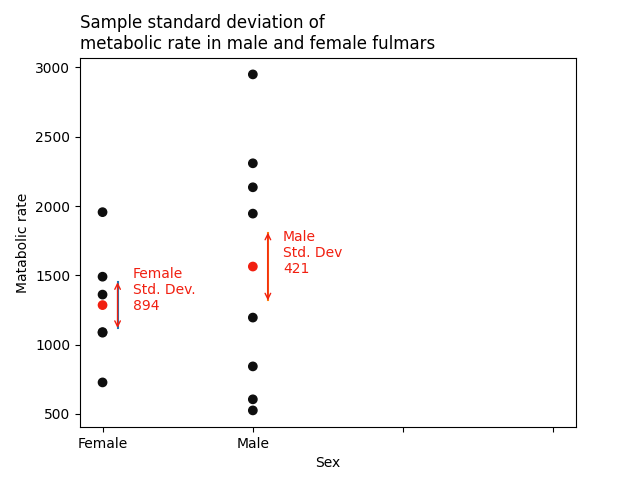
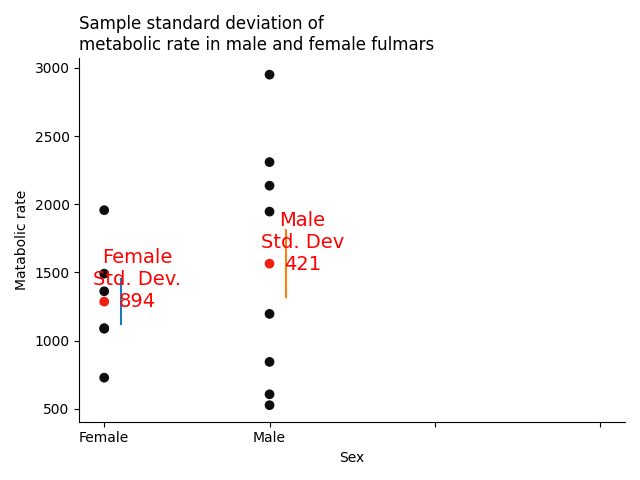
getPath

diff --git a/graphic/plot.py b/graphic/plot.py
@@ -5,6 +5,7 @@ from matplotlib import colors
 import matplotlib.patches as patches
 from matplotlib.patches import Polygon
 from do_statistics.doStats import DoStats
+from utilities import getPath
 class Plot(DoStats):
     red='#F11F10'
     white='#fff'
@@ -264,7 +265,7 @@ class Plot(DoStats):
         self.x_format_fn and ax.xaxis.set_major_formatter(FuncFormatter(self.x_format_fn))
         locator(MaxNLocator(integer=True))
     def scatterGrouped(self,l,title='',xTxt='',yTxt=''):
-        fig, ax = plt.subplots()
+        fig, ax = self.getFigAx()
         self.setTxt(ax,title,xTxt,yTxt)
         self.addScatter(ax,l)
         labels = list(map(lambda item: item[0], l))
@@ -273,9 +274,11 @@ class Plot(DoStats):
                 return labels[int(tick_val)-1]
             else:
                 return ''
-        self.setLables(ax, labels,format_fn=format_fn)
+
+        self.x_format_fn=format_fn
+        self.setLables(ax, labels)
         this_function_name = inspect.currentframe().f_code.co_name
-        self.save(plt,this_function_name)
+        self.saveAndShow(this_function_name)
     def saveAndShow(self, this_function_name=None, enableShow=False):
         if this_function_name is None:
             if hasattr(self,'this_function_name'):
@@ -286,7 +289,9 @@ class Plot(DoStats):
         self.ax.spines['right'].set_visible(False)
         self.ax.spines['top'].set_visible(False)
         plt.tight_layout()
-        plt.savefig("img/{0}.png".format(this_function_name))
+        fname = "img/{0}.png".format(this_function_name)
+        file=getPath(fname)
+        plt.savefig(file)
         enableShow and self.show()
     def addScatter(self,ax,l):
         for ind,i in enumerate(l):
@@ -307,9 +312,9 @@ class Plot(DoStats):
         x1, y1 = x+.1, mean-mean*ratio
         x2, y2 = x+.1, mean+mean*ratio
         position = (x + .2, mean - 300 * ratio)
-        self.annotate(ax,[x1, x2], [y1, y2])
-        self.drawTxt(ax,position,txt)
-    def drawTxt(self,  annotation,ax=None):
+        self.annotate([x1, x2], [y1, y2],ax=ax)
+        self.drawTxt({'position':position,'txt':txt})
+    def drawTxt(self,  annotation,ax=None,position=None):
         if ax is None:
             ax=self.ax
         if annotation is None:

diff --git a/test/test_SD.py b/test/test_SD.py
@@ -8,14 +8,15 @@ sys.path.append(os.path.normpath(os.path.join(SCRIPT_DIR, PACKAGE_PARENT)))
 from datatype import DataTypes
 import unittest,pandas
 from mysql_data.decorators_func import singleton
-from unum.units import * # Load a number of common units.
 import pint,math
+from utilities import getPath
 from pint import UnitRegistry
 ureg = UnitRegistry()
 class TDD_TEST_SD(unittest.TestCase):
     @singleton
     def setUp(self):
         file = "data/metabolic.csv"
+        file = getPath(file,isUpperLevel=True)
         X = ["Sex", "Metabolic rate"]
         y = "CO2"
         predictVals = [2300, 1300]
@@ -25,6 +26,9 @@ class TDD_TEST_SD(unittest.TestCase):
         self.__class__.s1 = self.__class__.d.getSD(self.__class__.l1)
         self.__class__.s2 = self.__class__.d.getSD(self.__class__.l2)
         self.__class__.s3 = self.__class__.d.getSD(self.__class__.l1,expected=None)
+
+
+
     def test_test_SD(self):
         self.assertIsInstance(self.d.df, pandas.core.frame.DataFrame)
         mr = self.d.getDfCol()
@@ -87,7 +91,7 @@ class TDD_TEST_SD(unittest.TestCase):
         p1 = self.d.getProbability(1)
         p2 = self.d.getProbability(2)
         p3 = self.d.getProbability(3)
-        self.assertEqual(p0,1)
+        self.assertEqual(p0,0)
         self.assertEqual(p1,.6827)
         self.assertEqual(p2,.9545)
         self.assertEqual(p3, .9973)

diff --git a/test/test_getting_started.py b/test/test_getting_started.py
@@ -113,6 +113,18 @@ class TDD_GETTING_STARTED(unittest.TestCase):
         d1=self.p.getDecile(ages,31)
         self.assertEqual(d,0)
         self.assertAlmostEqual(d1,.048,3)
+    def test_Quartile(self):
+        l=1, 3, 3, 4, 5, 6, 6, 7, 8, 8
+        q=self.p.getQuartile(l,2)
+        q1=self.p.getQuartile(l,1)
+        q3=self.p.getQuartile(l,3)
+        q4=self.p.getQuartile(l,percentile=75)
+        self.assertEqual(q,5.5)
+        self.assertEqual(q1,3)
+        self.assertEqual(q3,7)
+        self.assertEqual(q4,7)
+    def test_Estimating_Percentiles(self):
+        pass
     def test_data_distribution(self):
         x = numpy.random.uniform(0.0, 5.0, 250)
         isfloat = all(isinstance(v, float) for v in x)

diff --git a/do_statistics/doStats.py b/do_statistics/doStats.py
@@ -212,6 +212,19 @@ class DoStats(object):
         listP.sort()
         index=l.index(val)
         return index/len(listP)
+    def getQuartile(self,l,ordinal=None,percentile=None):
+        if percentile is not None:
+            ordinal=int(percentile/25)
+        listP = list(l).copy()
+        listP.sort()
+        unit=len(listP)/4
+        index=unit*ordinal
+        i = int(index)
+        if i ==index:
+            ret=(listP[i-1]+listP[i])/2
+        else:
+            ret=listP[math.floor(i)]
+        return ret
     def getPercentile(self, percent,l=None):
         if l is None:
             l=self.list

diff --git a/data/handle_data.py b/data/handle_data.py
@@ -3,6 +3,7 @@ import sys
 sys.path
 sys.executable
 import pandas, pydotplus, math, numpy as np, matplotlib.image as pltimg, matplotlib.pyplot as plt
+from pint import UnitRegistry
 from sklearn.preprocessing import StandardScaler
 from mathMethods.doMath import DoMath
 from mysql_data.mysqlOp import MysqlOp

diff --git a/datatype.py b/datatype.py
@@ -4,6 +4,7 @@ from AI import DoAI
 from graphic.plot import Plot
 from graphic.decision_tree import DecisionTree
 class DataTypes(HandleData, Predict, DoAI, Plot, DecisionTree):
+
     def getGini(self, getSample=None):
         if callable(getSample):
             samples = getSample(self.df)

diff --git a/utilities.py b/utilities.py
@@ -1,0 +1,6 @@
+import  os
+def getPath(file,isUpperLevel=False):
+    isUpperLevel and os.chdir('..')
+    pre = os.getcwd()
+    file = os.path.join(pre, file)
+    return file
